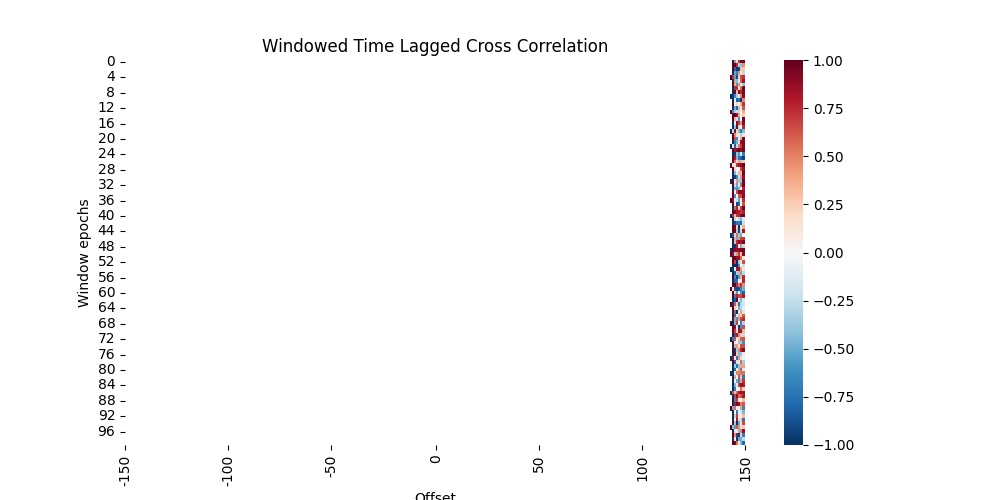
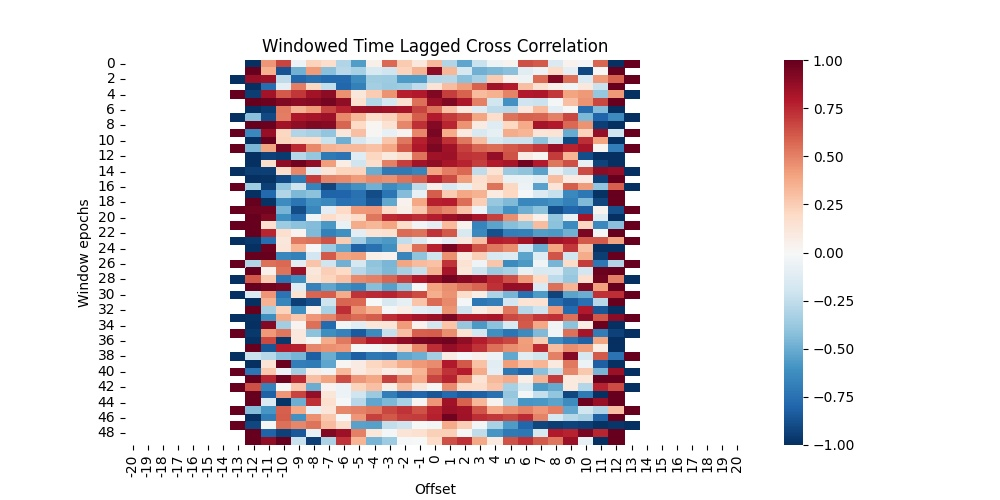
regression

diff --git a/lagtest.py b/lagtest.py
@@ -75,6 +75,17 @@ def plot_chart(coin1,coinName1="" ,coin2=None ,coinName2="",mode="lines"):
         fig.add_trace(go.Scatter(x=coin2["ts"], y=coin2["scaled_price"],name=coinName2,mode=mode))
     fig.show()
 
+
+def plot_chartV2(coin_dict,mode="lines"):
+
+    #plot two coins 
+    fig = go.Figure()
+    for coin in coin_dict.items():
+        fig.add_trace(go.Scatter(x=coin[1]["ts"], y=coin[1]["scaled_price"],name=coin[0],mode=mode))
+
+
+    fig.show()
+
 def detect_leg_corr(p1,p2,lag=100):
     #caluclate sycrony 
     res = {} 
@@ -108,8 +119,10 @@ def windowed_time_lagged_cross_correlation(p1,p2,lag,no_splits):
         split_p1 = p1.loc[(t)*samples_per_split:(t+1)*samples_per_split]
         split_p2 = p2.loc[(t)*samples_per_split:(t+1)*samples_per_split]
         rs = detect_leg_corr(split_p1,split_p2,lag=lag)
+        #print("num:",t," ->",rs[2])
         rss.append(rs[2])
-    
+
+        print(rss)
     return pd.DataFrame(rss)
 
 def plot_window_lag_cross_correlation(rss):
@@ -117,7 +130,7 @@ def plot_window_lag_cross_correlation(rss):
     f,ax = plt.subplots(figsize=(10,5))
     sns.heatmap(rss,cmap='RdBu_r',ax=ax)
     ax.set(title=f'Windowed Time Lagged Cross Correlation', xlabel='Offset',ylabel='Window epochs')
-    ax.set_xticks([0, 50, 100, 151, 201, 251, 301])
-    ax.set_xticklabels([-150, -100, -50, 0, 50, 100, 150])
+    # ax.set_xticks([0, 50, 100, 151, 201, 251, 301])
+    # ax.set_xticklabels([-150, -100, -50, 0, 50, 100, 150])
 
     plt.savefig("./heatmap.jpg")

diff --git a/playground_lagtest.py b/playground_lagtest.py
@@ -3,8 +3,8 @@ import lagtest as lg
 show_plots= True # render or dont render plots
 
 time = 30 #how many days showld the history data go back -> only up to one 90 days possile
-lag = 300 # till up to which lag do you want to compare the data 
-no_splits = 100 # number of splits for window time lagges corrolation
+lag = 20 # till up to which lag do you want to compare the data 
+no_splits = 50 # number of splits for window time lagges corrolation
 
 #tezos hoch 
 rand_coin_name = "tezos" #name of rand coin to get 
@@ -18,6 +18,7 @@ if __name__=="__main__":    #get bitcoin and etherium data
     rand_coin_df = lg.get_coin_by_name(rand_coin_name,time=time)
 
     btc_df, rand_coin_df = lg.clean_data(btc_df,rand_coin_df)
+    print(len(btc_df))
 
     # plot time series
     lg.plot_chart(btc_df,"bitcoin",rand_coin_df,rand_coin_name)
@@ -29,7 +30,6 @@ if __name__=="__main__":    #get bitcoin and etherium data
     # plot lag plot 
     lg.lag_plot(res,peak_snyc = peak_sync)
 
+    # Number of legs and window can result in nan Values 
     rss = lg.windowed_time_lagged_cross_correlation(btc_df["scaled_price"],rand_coin_df["scaled_price"],lag=lag,no_splits=no_splits)
-
     lg.plot_window_lag_cross_correlation(rss)
-    #print(peak_sync,sorted_res,res)

diff --git a/playground_regression.py b/playground_regression.py
@@ -1,0 +1,13 @@
+import lagtest as lg
+
+time = 60
+
+# make regression (non-linear) of domient crypto currencies 
+dominant_crypto_curr = ["bitcoin","ethereum","cardano","ripple","solana"]
+
+main_coin_dict = lg.get_main_coins(names=dominant_crypto_curr,time=time)
+
+lg.plot_chartV2(main_coin_dict,mode="markers")
+# calculate std deviation to reg funtion 
+
+# treade outliers 
